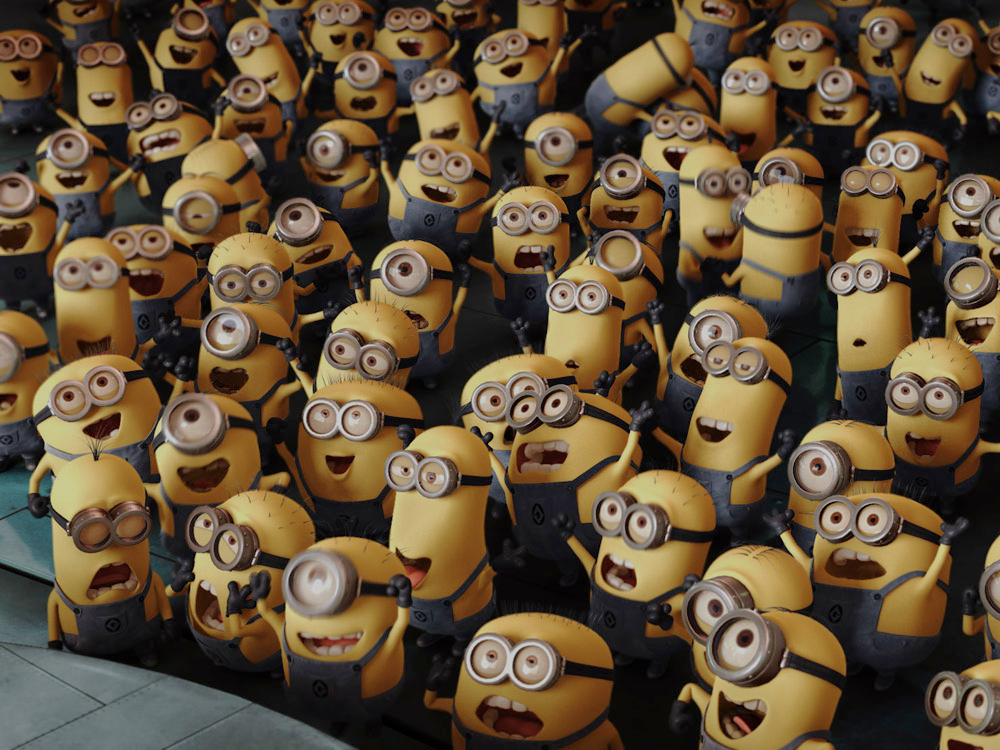
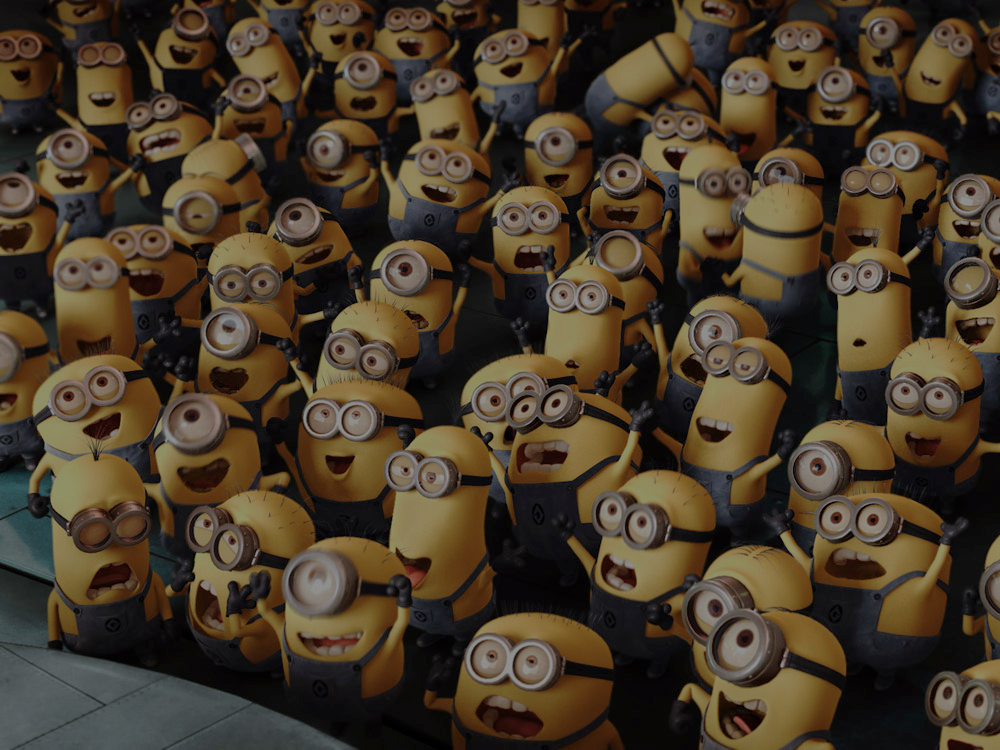
Final Agnes Gru's Resume

diff --git a/index.html b/index.html
@@ -25,13 +25,33 @@
         </div>
     </nav>
 
-    <section id="about-me" class="mt-5">
+    <section id="about-me" class="mt-3 mt-md-5">
         <div class="container">
             <div class="row">
                 <div class="col-12 col-md-6">
                     <div class="row">
                         <div class="col-12 col-md-6">
-                            <img src="./img/agnes-profile.png" class="img-fluid rounded-3">
+                            <div id="carouselExample" class="carousel slide">
+                                <div class="carousel-inner">
+                                    <div class="carousel-item active">
+                                        <img src="img/agnes-profile.png" class="d-block w-100 h-100 object-fit-cover img-fluid" alt="agnes-profile-1">
+                                    </div>
+                                    <div class="carousel-item">
+                                        <img src="img/agnes-profile2.jpg" class="d-block w-100 h-100 object-fit-cover img-fluid" alt="agnes-profile-2">
+                                    </div>
+                                    <div class="carousel-item">
+                                        <img src="img/agnes-profile3.jpg" class="d-block w-100 h-100 object-fit-cover img-fluid" alt="agnes-profile-3">
+                                    </div>
+                                </div>
+                                <button class="carousel-control-prev" type="button" data-bs-target="#carouselExample" data-bs-slide="prev">
+                                    <span class="carousel-control-prev-icon" aria-hidden="true"></span>
+                                    <span class="visually-hidden">Previous</span>
+                                </button>
+                                <button class="carousel-control-next" type="button" data-bs-target="#carouselExample" data-bs-slide="next">
+                                    <span class="carousel-control-next-icon" aria-hidden="true"></span>
+                                    <span class="visually-hidden">Next</span>
+                                </button>
+                            </div>                        
                         </div>
                         <div class="col-12 col-md-6 mt-4 mt-md-0">
                             <p><strong>Name: </strong> Agnes Gru</p>
@@ -153,7 +173,7 @@
     </section>
 
     <section id="stats" class="mt-5">
-        <div class="opacity-75" style="background-image: url(img/stats.png); background-size: cover; z-index: 1;">
+        <div class="opacity-100" style="background-image: url(img/stats.png); background-size: cover; z-index: 1;">
             <div class="row py-3 text-center d-flex align-items-center text-white">
                 <div class="col-6 col-md-3">
                     <h2 class="fw-bold">1,000+</h2>
@@ -179,10 +199,10 @@
         <div class="container">
             <div class="text-center mb-4">
                 <h4 class="fw-bold border-bottom border-5 border-danger pb-1 d-inline-block">Portofolio</h4>
-                <p>Photos of my unicorn collection, my fluffy unicorn, drawings, and maybe me in my favorite!</p>
+                <p class="mt-2">Photos of my unicorn collection, my fluffy unicorn, drawings, and maybe me in my favorite!</p>
             </div>
 
-            <div class="mt-5">
+            <div class="mt-4">
                 <div class="row mb-4">
                     <div class="col-12 col-md-6 col-lg-4 mt-3">
                         <div class="portofolio rounded-3 overflow-hidden" style="height: 250px;">
@@ -288,7 +308,7 @@
                     <label for="" class="mb-2 fw-bold">Name: </label>
                     <input type="text" name="" id="" placeholder="Enter your name" class="border rounded-2 p-2 w-100">
                 </div>
-                <div class="col-12 col-md-6">
+                <div class="col-12 col-md-6 mt-4 mt-md-0">
                     <label for="" class="mb-2 fw-bold">Email: </label>
                     <input type="email" name="" id="" placeholder="Enter your email" class="border rounded-2 p-2 w-100">
                 </div>

diff --git a/style.css b/style.css
@@ -7,6 +7,7 @@
 #services .grid:hover {
     background-color: rgb(255, 192, 203,0.4);
     transition: 0.5s;
+    border-bottom: 2px outset rgb(255, 0, 0) !important;
     cursor: context-menu;
 }
 
@@ -19,3 +20,10 @@
     transition: 0.5s;
     border: 1.5px solid black;
 }
+
+.carousel-inner {
+    height: 250px; 
+}
+
+
+
